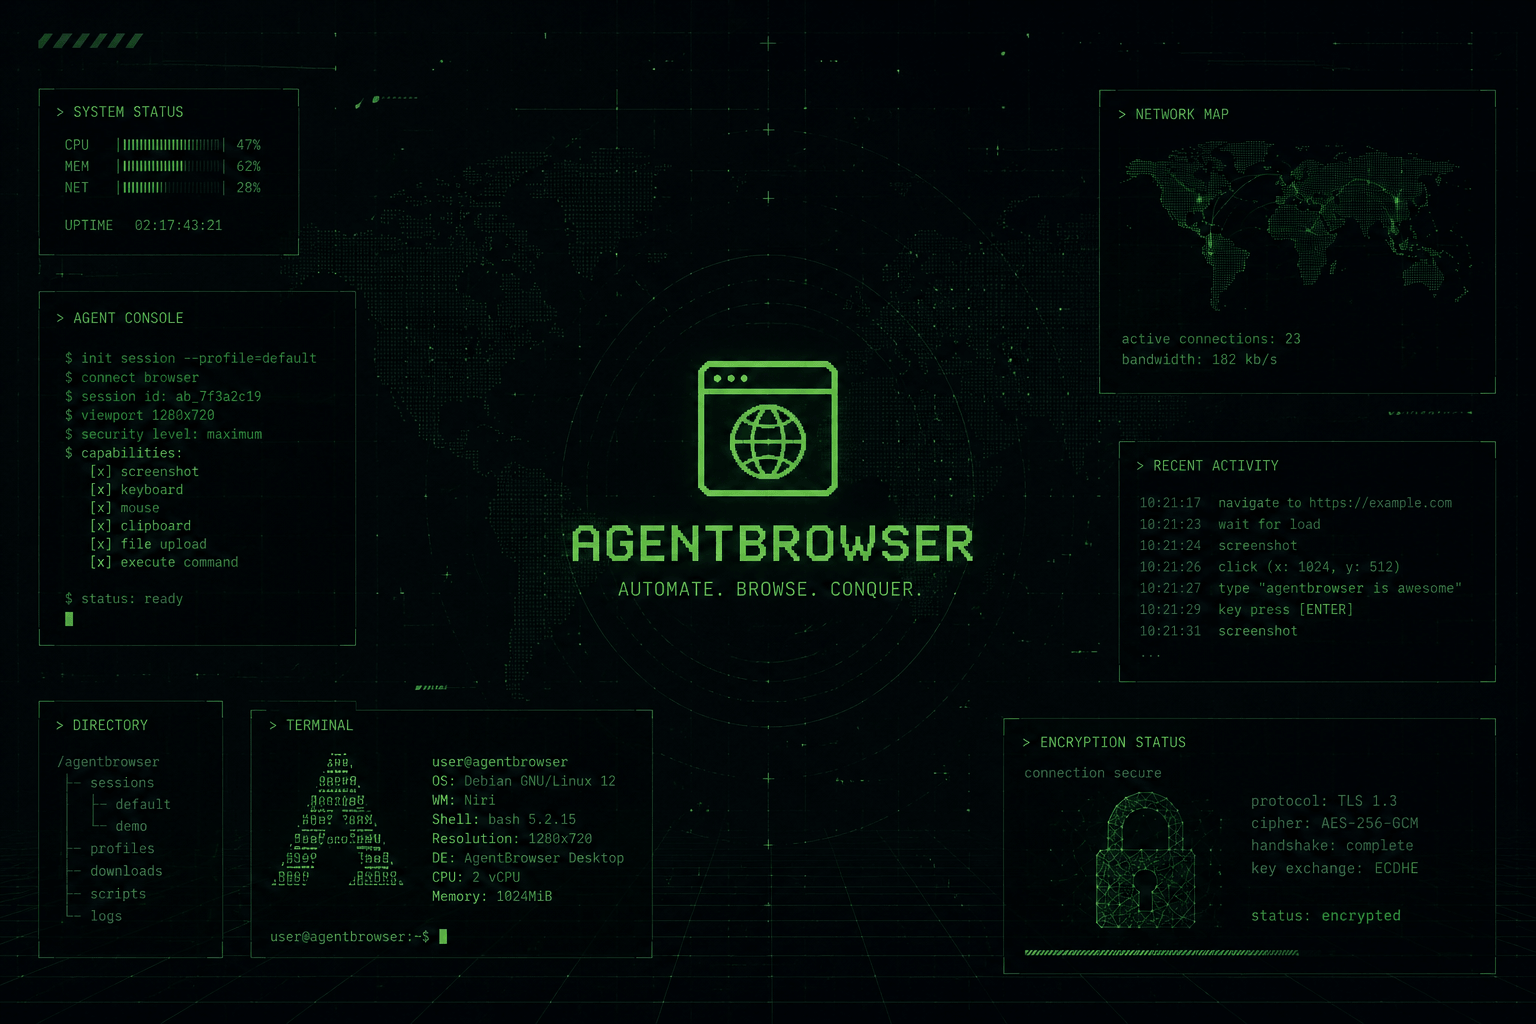
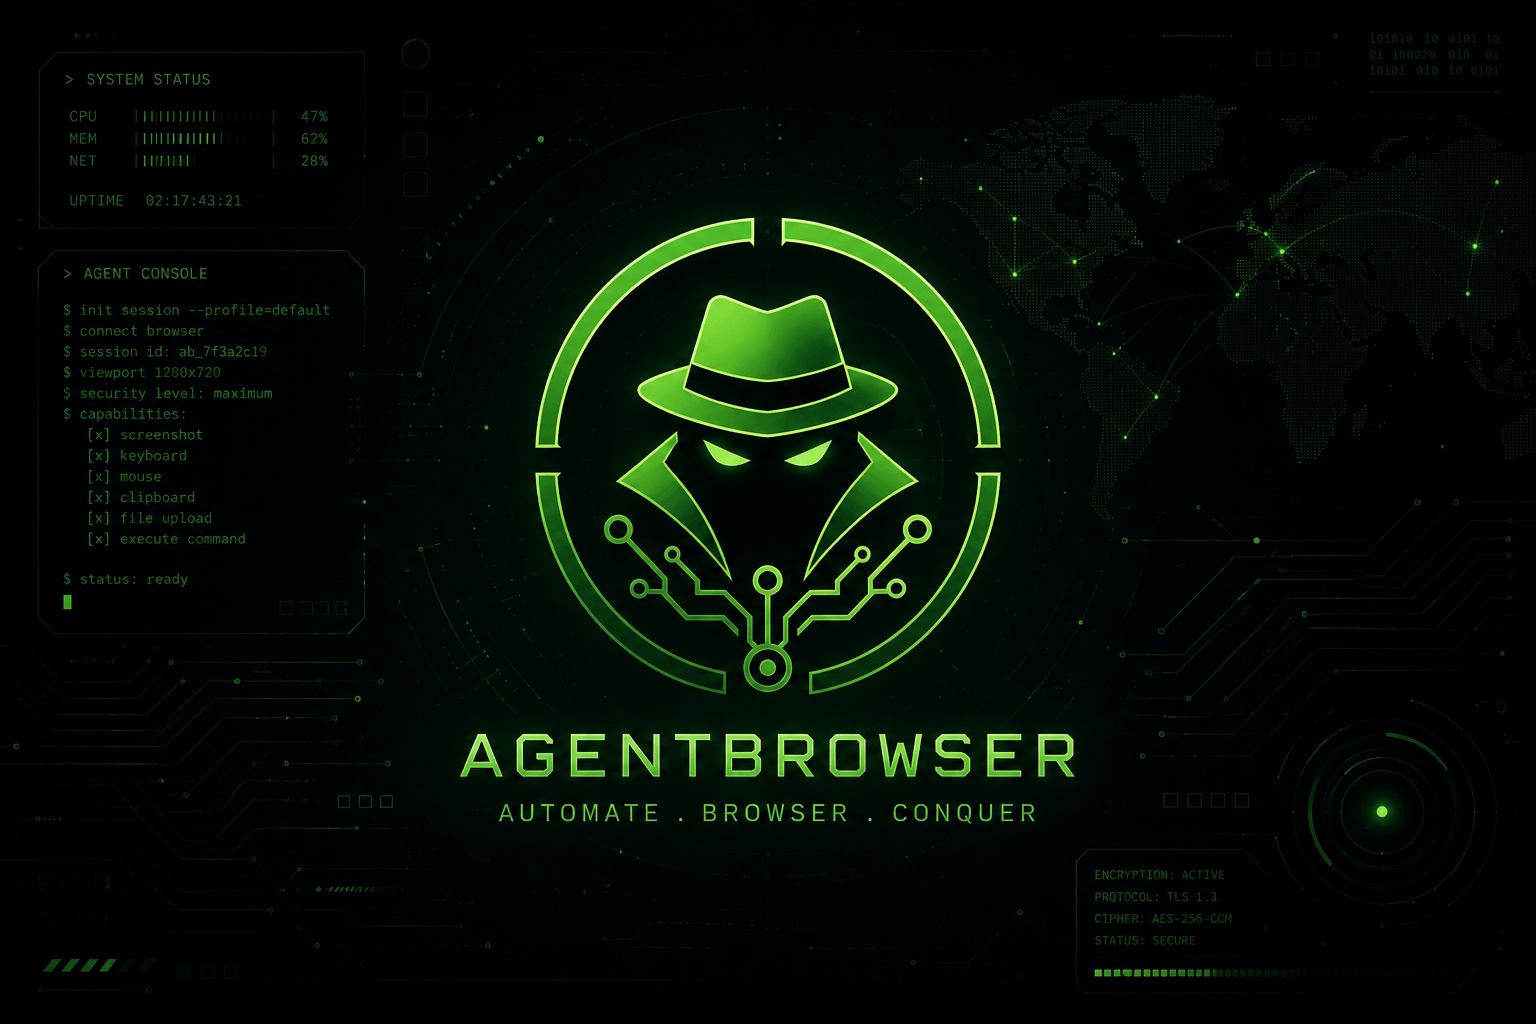
Fix niri/noctalia boot and add AgentBrowser selkies-web branding
Boot reliability:
- startup.sh: make Selkies-web branding non-fatal so a cp/permission
  error can no longer abort the script (set -e) before niri/noctalia
  launch; normalise ownership best-effort.
- niri-launcher.sh: when a niri is already running, still publish
  /tmp/niri-wayland-display (recovered from the running IPC socket/log)
  instead of exiting bare, which stranded noctalia on a bogus display.
- noctalia-launcher.sh: discover niri's real Wayland socket when the
  display file is missing, instead of blocking on an inherited wayland-0.

Selkies-web branding:
- Serve a branded copy from /config/selkies-web (Dockerfile + nginx).
- agentbrowser.css/js + trimmed logo: AgentBrowser title and logo linking
  to the repo, fullscreen + hide-panel buttons, theme toggle and gaming
  mode removed, fixed dark theme.
- startup.sh injects both the stylesheet and the script into index.html.

diff --git a/root/defaults/selkies-web/agentbrowser.css b/root/defaults/selkies-web/agentbrowser.css
@@ -1,0 +1,198 @@
+:root,
+.theme-dark,
+.theme-light {
+  --sidebar-bg: #11161c !important;
+  --sidebar-text: #d7e2d4 !important;
+  --sidebar-header-color: #7dff8c !important;
+  --sidebar-border: #1d2a22 !important;
+  --sidebar-shadow: rgba(0, 0, 0, 0.6) !important;
+  --section-bg: #18211c !important;
+  --item-border: #294233 !important;
+  --input-bg: #121a16 !important;
+  --input-text: #d7e2d4 !important;
+  --input-border: #35503f !important;
+  --button-bg: #7dff8c !important;
+  --button-text: #08110a !important;
+  --button-hover-bg: #5fe272 !important;
+  --pre-bg: #121a16 !important;
+  --pre-text: #d7e2d4 !important;
+  --tooltip-bg: #18211c !important;
+  --tooltip-text: #d7e2d4 !important;
+  --tooltip-border: #35503f !important;
+  --slider-track-color: #223128 !important;
+  --slider-thumb-color: #7dff8c !important;
+  --notification-progress-bg: #223128 !important;
+  --notification-progress-fill: #7dff8c !important;
+  --notification-success-color: #7dff8c !important;
+  --notification-error-color: #ff6b6b !important;
+  --notification-warn-color: #ffd166 !important;
+}
+
+body {
+  background:
+    radial-gradient(circle at top, rgba(46, 125, 50, 0.12), transparent 35%),
+    linear-gradient(180deg, #0d1117 0%, #11161c 100%) !important;
+}
+
+.sidebar {
+  backdrop-filter: blur(10px);
+  border-right: 1px solid rgba(125, 255, 140, 0.12);
+}
+
+/* ---- Header layout ---- */
+.sidebar-header {
+  display: flex;
+  align-items: center;
+  gap: 8px;
+  min-height: 60px;
+  padding: 8px 12px 8px 4px;
+  border-bottom: 1px solid rgba(125, 255, 140, 0.1);
+}
+
+/* Brand (logo + title) clickable area pinned to the left, controls to the right */
+.sidebar-header > a {
+  display: inline-flex;
+  align-items: center;
+  text-decoration: none;
+}
+
+/* Hide the original Selkies SVG logo; we render our own via the title's ::before */
+.sidebar-header > a > svg,
+.sidebar-header [aria-label*="Selkies"] {
+  display: none !important;
+}
+
+/* The empty anchor that used to hold the SVG: collapse it so it adds no gap */
+.sidebar-header > a:first-child {
+  width: 0;
+  overflow: hidden;
+}
+
+.sidebar h2 {
+  font-size: 0 !important;
+  letter-spacing: 0 !important;
+  margin: 0 !important;
+  display: inline-flex;
+  align-items: center;
+  gap: 10px;
+  line-height: 1;
+  cursor: pointer;
+}
+
+/* AgentBrowser logo */
+.sidebar h2::before {
+  content: "";
+  width: 44px;
+  height: 44px;
+  flex: 0 0 44px;
+  display: inline-block;
+  background-image: url("./agentbrowser-logo.png");
+  background-size: contain;
+  background-repeat: no-repeat;
+  background-position: center;
+  filter: drop-shadow(0 0 6px rgba(125, 255, 140, 0.28));
+}
+
+/* AgentBrowser wordmark */
+.sidebar h2::after {
+  content: "AgentBrowser";
+  font-size: 1rem;
+  font-weight: 700;
+  letter-spacing: 0.01em;
+  color: #7dff8c;
+  text-shadow: 0 0 10px rgba(125, 255, 140, 0.16);
+  white-space: nowrap;
+}
+
+/* ---- Header controls (theme / fullscreen / hide) ---- */
+.header-controls {
+  display: flex;
+  align-items: center;
+  gap: 6px;
+  margin-left: auto;
+}
+
+/* Theme switching is fixed to the AgentBrowser dark theme — hide the toggle.
+   Gaming mode (relative-mouse pointer lock) is irrelevant for an agent browser. */
+.header-controls .theme-toggle,
+.header-controls .gaming-mode-button {
+  display: none !important;
+}
+
+.header-action-button {
+  display: inline-flex;
+  align-items: center;
+  justify-content: center;
+  width: 32px;
+  height: 32px;
+  border-radius: 8px;
+  color: #7dff8c;
+  background: rgba(125, 255, 140, 0.06);
+  border: 1px solid rgba(125, 255, 140, 0.16);
+  transition: background 0.15s ease, box-shadow 0.15s ease, transform 0.1s ease;
+}
+
+.header-action-button:hover {
+  background: rgba(125, 255, 140, 0.14);
+  box-shadow: 0 0 0 1px rgba(125, 255, 140, 0.28) inset;
+}
+
+.header-action-button:active {
+  transform: scale(0.94);
+}
+
+.header-action-button.active {
+  box-shadow: 0 0 16px rgba(125, 255, 140, 0.2);
+}
+
+.sidebar-section-header:hover,
+.action-button:hover,
+.toggle-button:hover,
+.copy-button:hover,
+.resolution-button:hover,
+.app-detail-back-button:hover {
+  box-shadow: 0 0 0 1px rgba(125, 255, 140, 0.18) inset;
+}
+
+.action-button.active,
+.toggle-button.active,
+.mobile-key-button.active {
+  box-shadow: 0 0 16px rgba(125, 255, 140, 0.2);
+}
+
+.sidebar-section,
+.files-modal,
+.apps-modal,
+.notification-item {
+  border-color: #294233 !important;
+  box-shadow: 0 12px 30px rgba(0, 0, 0, 0.25);
+}
+
+.toggle-indicator {
+  background: linear-gradient(180deg, #34d058 0%, #7dff8c 100%) !important;
+  box-shadow: 0 0 12px rgba(125, 255, 140, 0.32);
+}
+
+.sharing-link,
+.copy-button:hover,
+.files-modal-close:hover,
+.apps-modal-close:hover {
+  color: #7dff8c !important;
+}
+
+.theme-toggle {
+  background-color: #223128 !important;
+}
+
+.theme-toggle .moon-icon,
+.theme-toggle .sun-icon {
+  color: #7dff8c !important;
+}
+
+.app-card {
+  background: linear-gradient(180deg, rgba(26, 36, 31, 0.96) 0%, rgba(18, 26, 22, 0.96) 100%);
+}
+
+.app-card:hover {
+  box-shadow: 0 8px 24px rgba(0, 0, 0, 0.35), 0 0 0 1px rgba(125, 255, 140, 0.18);
+}

diff --git a/root/defaults/selkies-web/agentbrowser.js b/root/defaults/selkies-web/agentbrowser.js
@@ -1,0 +1,77 @@
+(function () {
+  "use strict";
+
+  var REPO = "https://github.com/aitorroma/agentbrowser";
+
+  var HIDE_ICON =
+    '<svg viewBox="0 0 24 24" fill="none" stroke="currentColor" stroke-width="2" ' +
+    'stroke-linecap="round" stroke-linejoin="round" width="18" height="18">' +
+    '<polyline points="15 18 9 12 15 6"></polyline>' +
+    '<line x1="4" y1="5" x2="4" y2="19"></line></svg>';
+
+  function brand() {
+    if (document.title !== "AgentBrowser") document.title = "AgentBrowser";
+
+    var header = document.querySelector(".sidebar-header");
+    if (!header) return;
+
+    // 1. Point the brand links at the AgentBrowser repository.
+    header.querySelectorAll("a").forEach(function (a) {
+      if (a.getAttribute("href") !== REPO) {
+        a.setAttribute("href", REPO);
+        a.setAttribute("target", "_blank");
+        a.setAttribute("rel", "noopener noreferrer");
+        a.setAttribute("title", "AgentBrowser · GitHub");
+      }
+    });
+
+    // 2. Replace the "Selkies" wordmark with "AgentBrowser" (CSS also covers the
+    //    visual, this keeps the accessible name correct).
+    var h2 = header.querySelector("h2");
+    if (h2) {
+      if (h2.textContent.trim() !== "AgentBrowser") h2.textContent = "AgentBrowser";
+      h2.setAttribute("aria-label", "AgentBrowser");
+    }
+
+    var controls = header.querySelector(".header-controls");
+    if (!controls) return;
+
+    // 3. Make sure the native fullscreen button is present and labelled.
+    var fs = controls.querySelector(".fullscreen-button");
+    if (fs && !fs.getAttribute("title")) fs.setAttribute("title", "Pantalla completa");
+
+    // 4. Add a "hide panel" button that collapses the dashboard sidebar.
+    if (!controls.querySelector(".ab-hide-button")) {
+      var hide = document.createElement("button");
+      hide.type = "button";
+      hide.className = "header-action-button ab-hide-button";
+      hide.title = "Ocultar panel";
+      hide.setAttribute("aria-label", "Ocultar panel");
+      hide.innerHTML = HIDE_ICON;
+      hide.addEventListener("click", function (e) {
+        e.preventDefault();
+        var handle = document.querySelector(".toggle-handle");
+        if (handle) handle.click();
+      });
+      controls.appendChild(hide);
+    }
+  }
+
+  function run() {
+    try {
+      brand();
+    } catch (e) {
+      /* never break the app over branding */
+    }
+  }
+
+  if (document.readyState === "loading") {
+    document.addEventListener("DOMContentLoaded", run);
+  } else {
+    run();
+  }
+
+  // The Selkies UI re-renders its header; re-apply branding whenever it does.
+  var observer = new MutationObserver(run);
+  observer.observe(document.documentElement, { childList: true, subtree: true });
+})();